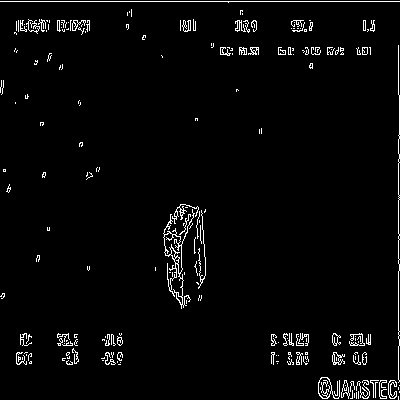
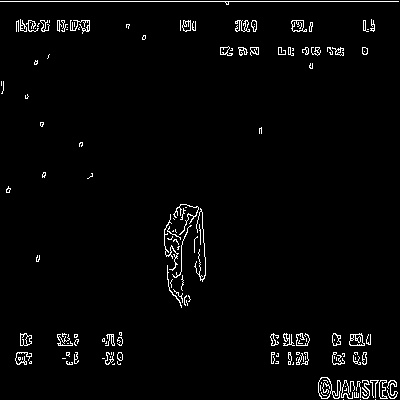
.

diff --git a/main/canny.py b/main/canny.py
@@ -16,7 +16,7 @@ for img_p in image_paths:
     #gaussian blur for better ditection
     Gimg= cv2.GaussianBlur(img_gray,(3,3),0)
     #canny edge 
-    edge= cv2.Canny(img_gray,70,100)
+    edge= cv2.Canny(Gimg,70,100)
     cv2.imshow("after",edge)   #shows after pic but dont save it
     cv2.waitKey(0) 
 
